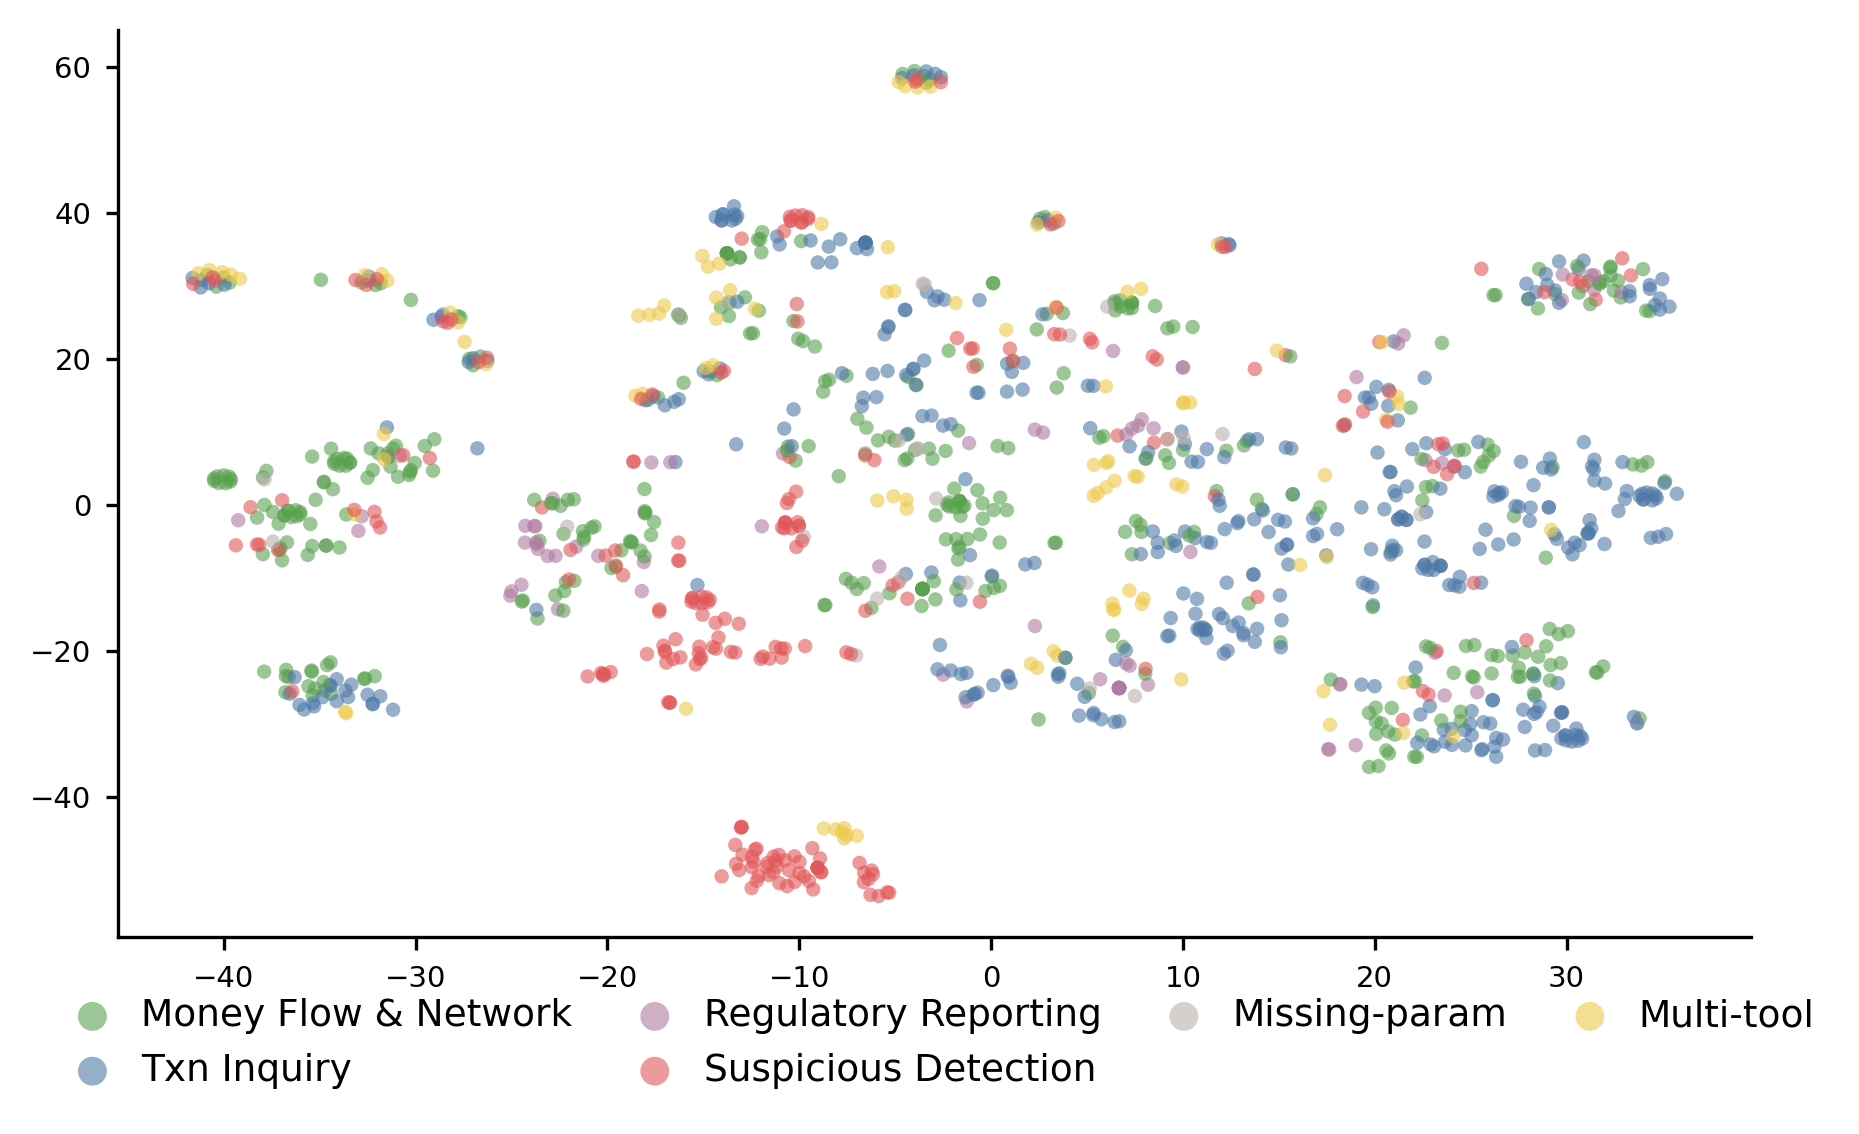
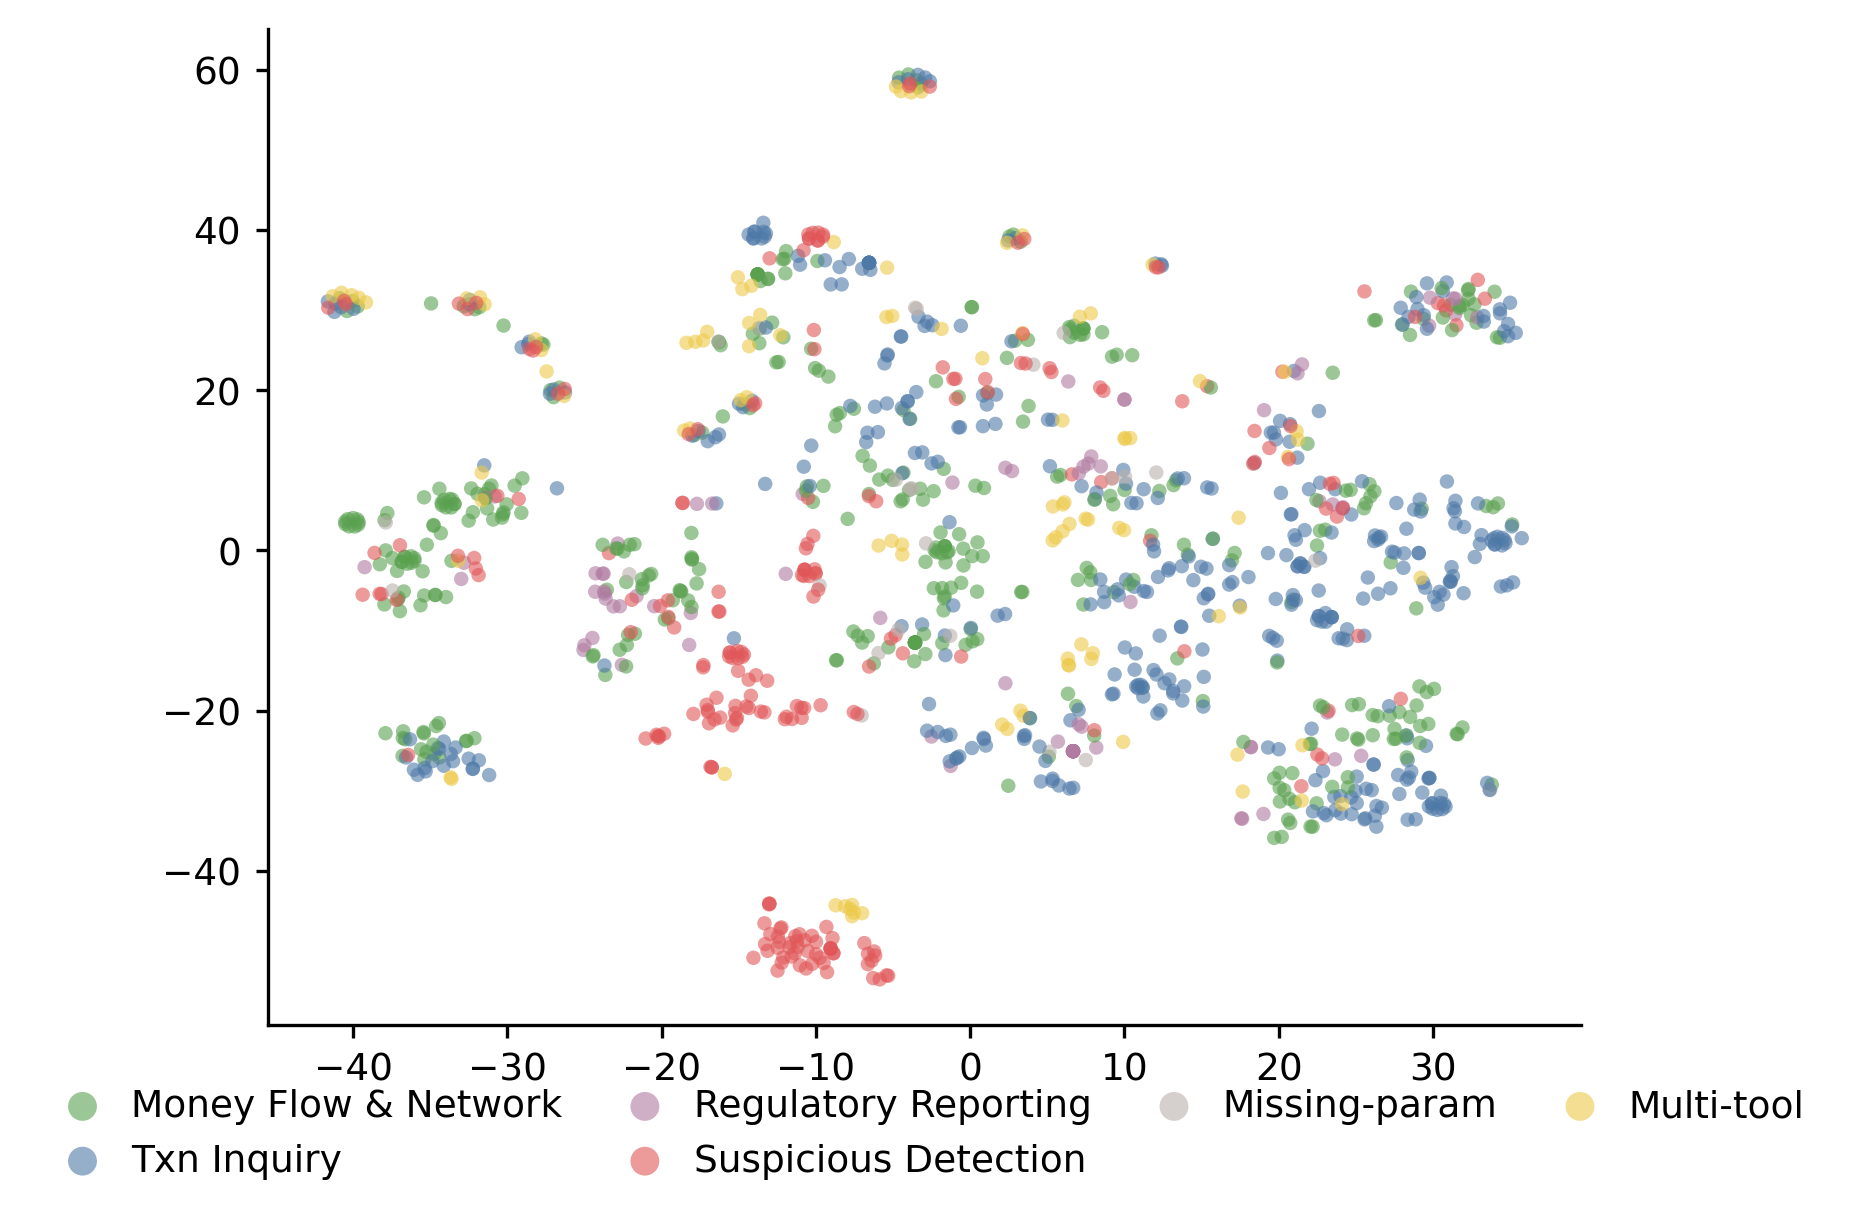
fig:tsne readability: tick labelsize 7->9, aspect 6.6x3.9 -> 6.0x4.2
prior width increase shrank the plot when scaled to column width; taller
aspect + bigger ticks render larger/clearer.

diff --git a/_experiments/scripts/generate_new_figures.py b/_experiments/scripts/generate_new_figures.py
@@ -553,7 +553,7 @@ def fig_tsne_semantic():
         "Multi-tool": "#EDC948", "Missing-param": "#BAB0AC",
     }
 
-    fig, ax = plt.subplots(figsize=(6.6, 3.9))
+    fig, ax = plt.subplots(figsize=(6.0, 4.2))
 
     plotted_subdomains = set()
     for i, (x, y) in enumerate(coords):
@@ -564,7 +564,7 @@ def fig_tsne_semantic():
         ax.scatter(x, y, c=color, s=12, alpha=0.6, edgecolors="none", label=label)
 
     apply_style(ax)
-    ax.tick_params(length=3, labelsize=7)  # tick 값 표시(축 라벨은 생략)
+    ax.tick_params(length=3, labelsize=9)  # tick 값 표시(축 라벨은 생략)
     ax.legend(fontsize=9, loc="upper center", bbox_to_anchor=(0.5, -0.03), ncol=4,
               frameon=False, markerscale=2, columnspacing=1.2, handletextpad=0.3)
 
